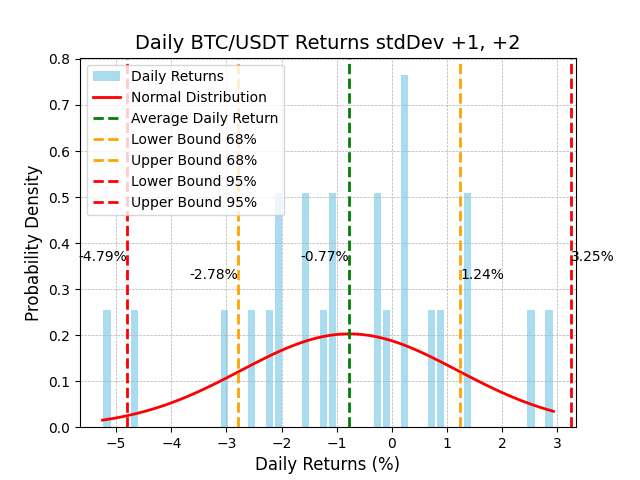
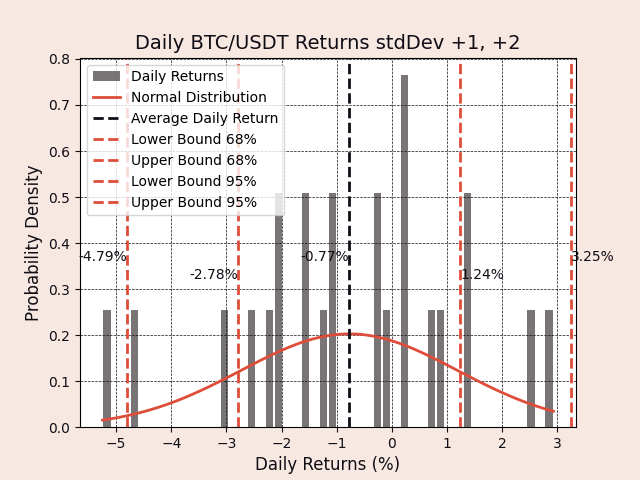
adds branding colors

diff --git a/Issue 2 - Sharpe Ratio/BTC_stdDev_calc.py b/Issue 2 - Sharpe Ratio/BTC_stdDev_calc.py
@@ -166,48 +166,52 @@ print(f'Within 2 Standard Deviations (95% probability):')
 print(f'Lower Bound: {lower_bound_95*100: .2f}%')
 print(f'Upper Bound: {upper_bound_95*100: .2f}%')
 
+plt.figure(facecolor='#f7e9e1')
 
 # Plotting the histogram
 plt.hist(daily_returns*100, bins=50, alpha=0.7, density=True,
-         label='Daily Returns', histtype='bar', rwidth=0.8, color='skyblue')
+         label='Daily Returns', histtype='bar', rwidth=0.8, color='#413b3c')
 
 # Calculating x and y values for the normal distribution curve
 x = np.linspace(min(daily_returns*100), max(daily_returns*100), 100)
 y = norm.pdf(x, average_daily_return*100, std_dev*100)
 
 # Plotting the normal distribution curve
-plt.plot(x, y, 'r-', label='Normal Distribution', linewidth=2)
+plt.plot(x, y, color='#de4d39', label='Normal Distribution', linewidth=2)
 
 # Adding vertical lines for the average and bounds
-plt.axvline(average_daily_return*100, color='green',
+plt.axvline(average_daily_return*100, color='#100d16',
             linestyle='--', linewidth=2, label='Average Daily Return')
-plt.axvline(lower_bound_68*100, color='orange', linestyle='--',
+plt.axvline(lower_bound_68*100, color='#de4d39', linestyle='--',
             linewidth=2, label='Lower Bound 68%')
-plt.axvline(upper_bound_68*100, color='orange', linestyle='--',
+plt.axvline(upper_bound_68*100, color='#de4d39', linestyle='--',
             linewidth=2, label='Upper Bound 68%')
-plt.axvline(lower_bound_95*100, color='red', linestyle='--',
+plt.axvline(lower_bound_95*100, color='#de4d39', linestyle='--',
             linewidth=2, label='Lower Bound 95%')
-plt.axvline(upper_bound_95*100, color='red', linestyle='--',
+plt.axvline(upper_bound_95*100, color='#de4d39', linestyle='--',
             linewidth=2, label='Upper Bound 95%')
 
 # Annotating the vertical lines with their literal values, adjusted to plot lower on the y-axis
 plt.text(average_daily_return*100, plt.ylim()
-         [1]*0.45, f'{average_daily_return*100:.2f}%', ha='right')
+         [1]*0.45, f'{average_daily_return*100:.2f}%', ha='right', color='#100d16')
 plt.text(lower_bound_68*100, plt.ylim()
-         [1]*0.40, f'{lower_bound_68*100:.2f}%', ha='right')
+         [1]*0.40, f'{lower_bound_68*100:.2f}%', ha='right', color='#100d16')
 plt.text(upper_bound_68*100, plt.ylim()
-         [1]*0.40, f'{upper_bound_68*100:.2f}%', ha='left')
+         [1]*0.40, f'{upper_bound_68*100:.2f}%', ha='left', color='#100d16')
 plt.text(lower_bound_95*100, plt.ylim()
-         [1]*0.45, f'{lower_bound_95*100:.2f}%', ha='right')
+         [1]*0.45, f'{lower_bound_95*100:.2f}%', ha='right', color='#100d16')
 plt.text(upper_bound_95*100, plt.ylim()
-         [1]*0.45, f'{upper_bound_95*100:.2f}%', ha='left')
+         [1]*0.45, f'{upper_bound_95*100:.2f}%', ha='left', color='#100d16')
 
 # Customizing the plot with enhanced labels, title, and grid
-plt.xlabel('Daily Returns (%)', fontsize=12)
-plt.ylabel('Probability Density', fontsize=12)
-plt.title('Daily BTC/USDT Returns stdDev +1, +2', fontsize=14)
+plt.xlabel('Daily Returns (%)', fontsize=12, color='#100d16')
+plt.ylabel('Probability Density', fontsize=12, color='#100d16')
+plt.title('Daily BTC/USDT Returns stdDev +1, +2', fontsize=14, color='#100d16')
 plt.legend()
-plt.grid(True, which='both', linestyle='--', linewidth=0.5)
+
+plt.grid(True, which='both', linestyle='--', linewidth=0.5, color='#100d16')
+
+plt.tick_params(colors='#100d16')
 
 # Saving the figure with improved styling
 plt.savefig('daily_btc_stdDev.png')
